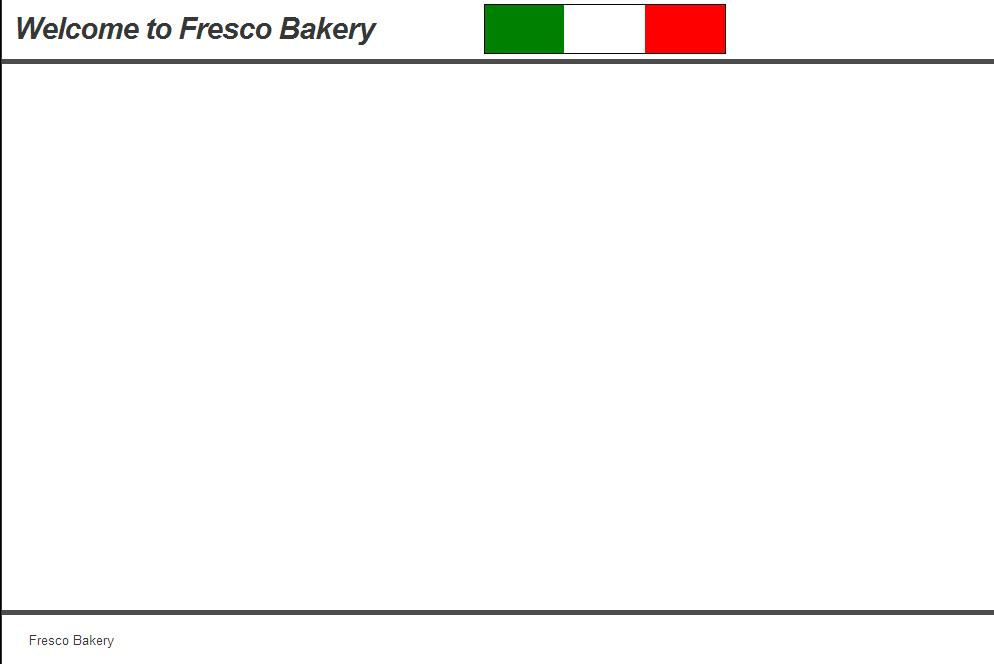
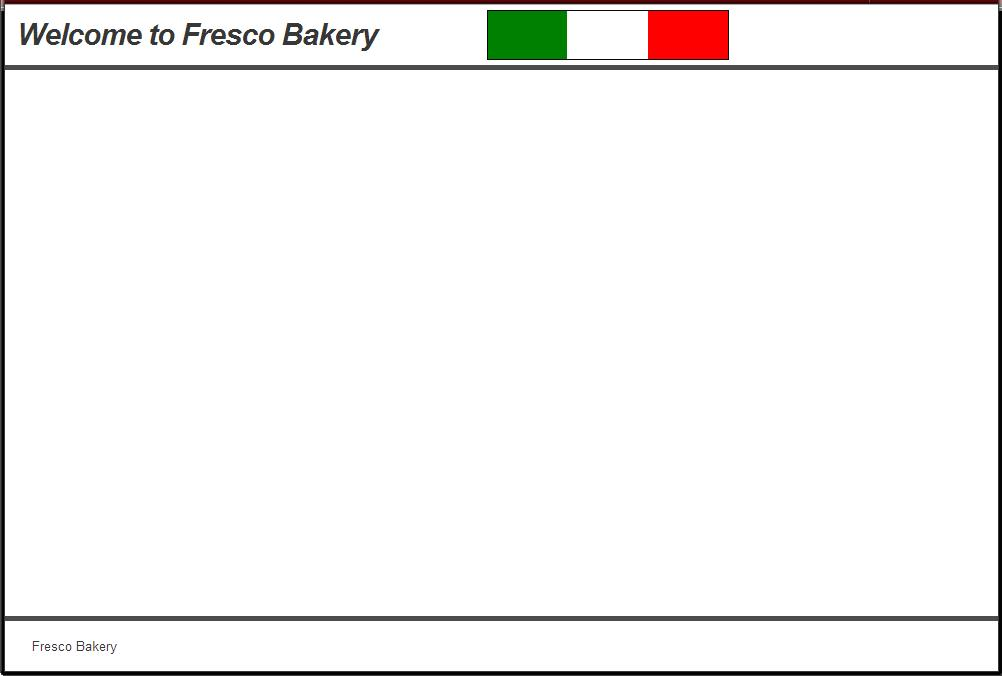
Add/Modify screenshots

Changed region(s): [[0.0, 0.0, 1.0, 1.0]]

diff --git a/tutorial.md b/tutorial.md
@@ -171,6 +171,8 @@ Our "customer" has given us the following requirements:
 
 So now that we have our requirements, let's start tackling them. The site will be structured with the menu at the top (right under our header), and as the user clicks on the menu options, we will just change the content that is being displayed in the area that is between the menu bar but above the footer. This area from now on will be referred to as the __main content area__. 
 
+![Adding the Menu Bar](/tutorial/AddingMenuBar.jpg?raw=true "Adding Menu Bar")
+
 ## Menu bar
 
 Let's put the menu bar on. Bootstrap makes it easy for us to get some default styles in. Remember when doing web development that styles, colors, etc. can be easily modified at any time. If you don't have any wireframes to go off of, or even if you do, a client can change their mind once they see the site in action. The approach this tutorial is going to take is to concentrate up front on the functionality of the site, then there will be a section later that will focus on customizing the styles.
@@ -312,6 +314,8 @@ The `updateNavigation` method is called when the `Application.app.history` objec
 Let's revisit our customer's requirements for the home page:
 
 - Brief history of the bakery
+- Phone number to contact the bakery (this will be done later)
+- Hours of operation (this will be done later)
 
 Let's create a folder called 'home' in the `app/templates` directory. This will help us keep our templates organized for clarity. Within that folder, create a file called 'layout.hbs' with this content in it:
 
